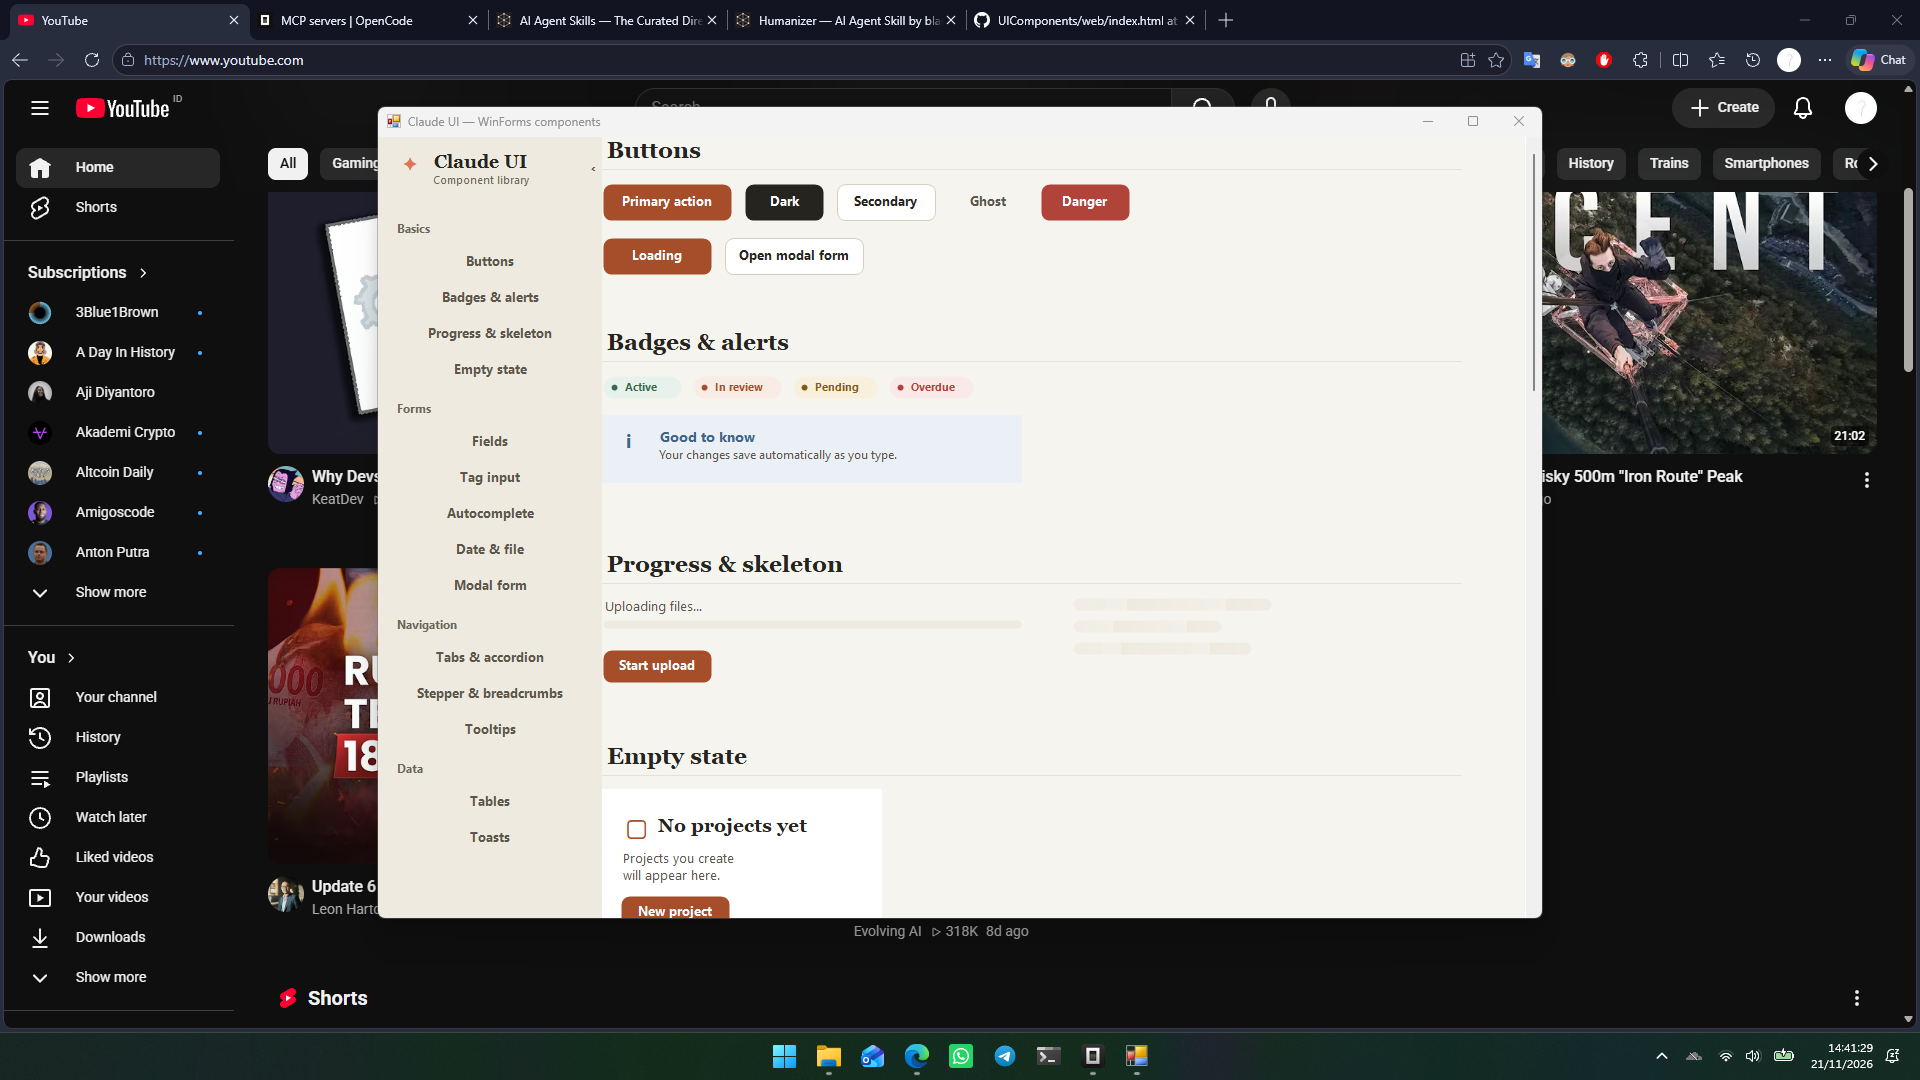
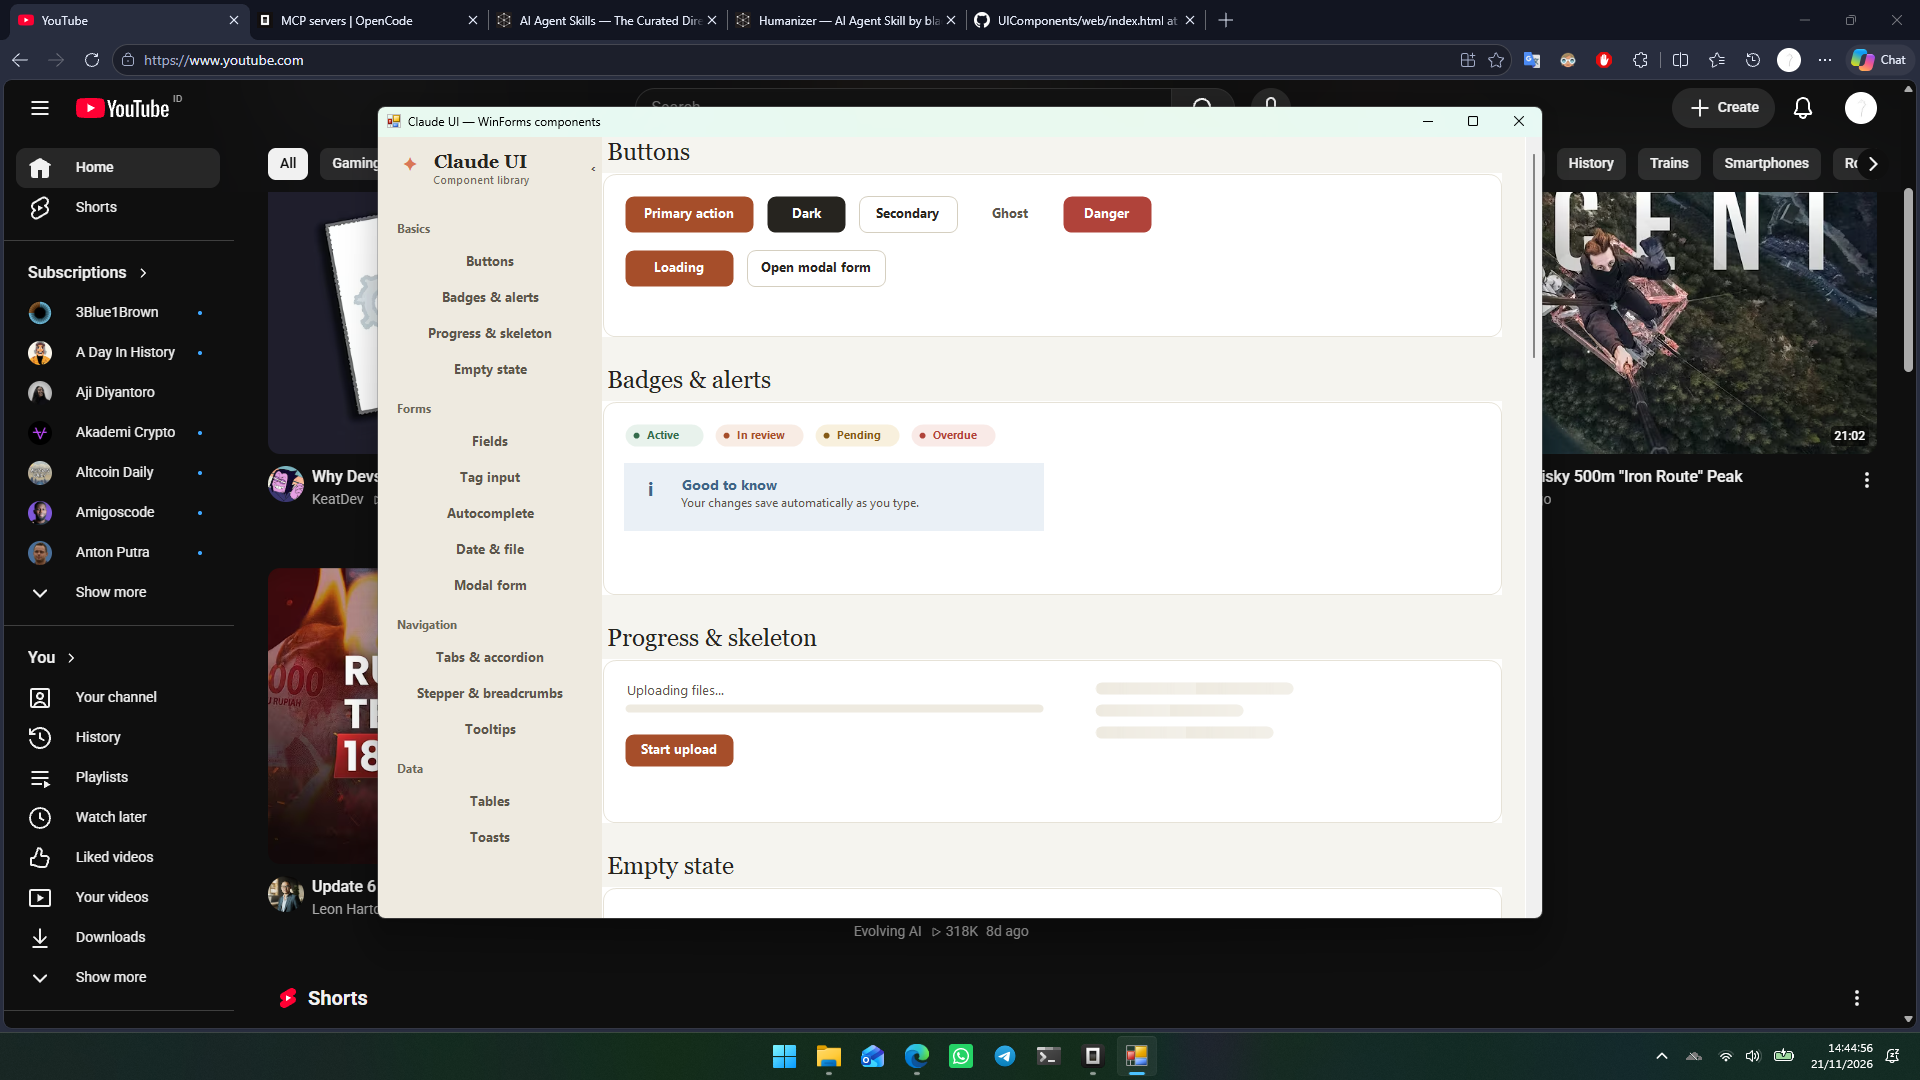
style: match web demo cards in WinForms showcase

diff --git a/winform/src/DemoForm.cs b/winform/src/DemoForm.cs
@@ -71,15 +71,15 @@ namespace UIComponents
 
         private Panel Section(string title, int y, int height, out int nextY)
         {
-            var heading = new Label { Text = title, Font = Theme.SerifBold(17f), ForeColor = Theme.Ink, Location = new Point(0, y), AutoSize = true, UseMnemonic = false };
-            var rule = new Panel { BackColor = Theme.Line, Location = new Point(0, y + 32), Size = new Size(860, 1) };
-            _main.Controls.Add(rule);
+            var heading = new Label { Text = title, Font = Theme.Serif(18f), ForeColor = Theme.Ink, Location = new Point(0, y), AutoSize = true, UseMnemonic = false };
             _main.Controls.Add(heading);
             _anchors[title] = y;
-            nextY = y + 46;
-            var panel = new Panel { Location = new Point(0, nextY), Size = new Size(860, height), BackColor = Theme.Bg };
-            _main.Controls.Add(panel);
-            nextY += height + 26;
+            int cardY = y + 36;
+            var card = new ClaudeCard { Location = new Point(0, cardY), Size = new Size(900, height + 44), Padding = new Padding(22) };
+            var panel = new Panel { Location = new Point(22, 22), Size = new Size(856, height), BackColor = Theme.Surface };
+            card.Controls.Add(panel);
+            _main.Controls.Add(card);
+            nextY = cardY + height + 44 + 28;
             return panel;
         }
 
@@ -203,7 +203,7 @@ namespace UIComponents
             var grid = new DataGridView
             {
                 Location = new Point(0, 0),
-                Size = new Size(820, 210)
+                Size = new Size(810, 210)
             };
             Draw.StyleGrid(grid);
             grid.Columns.Add("Project", "Project");
